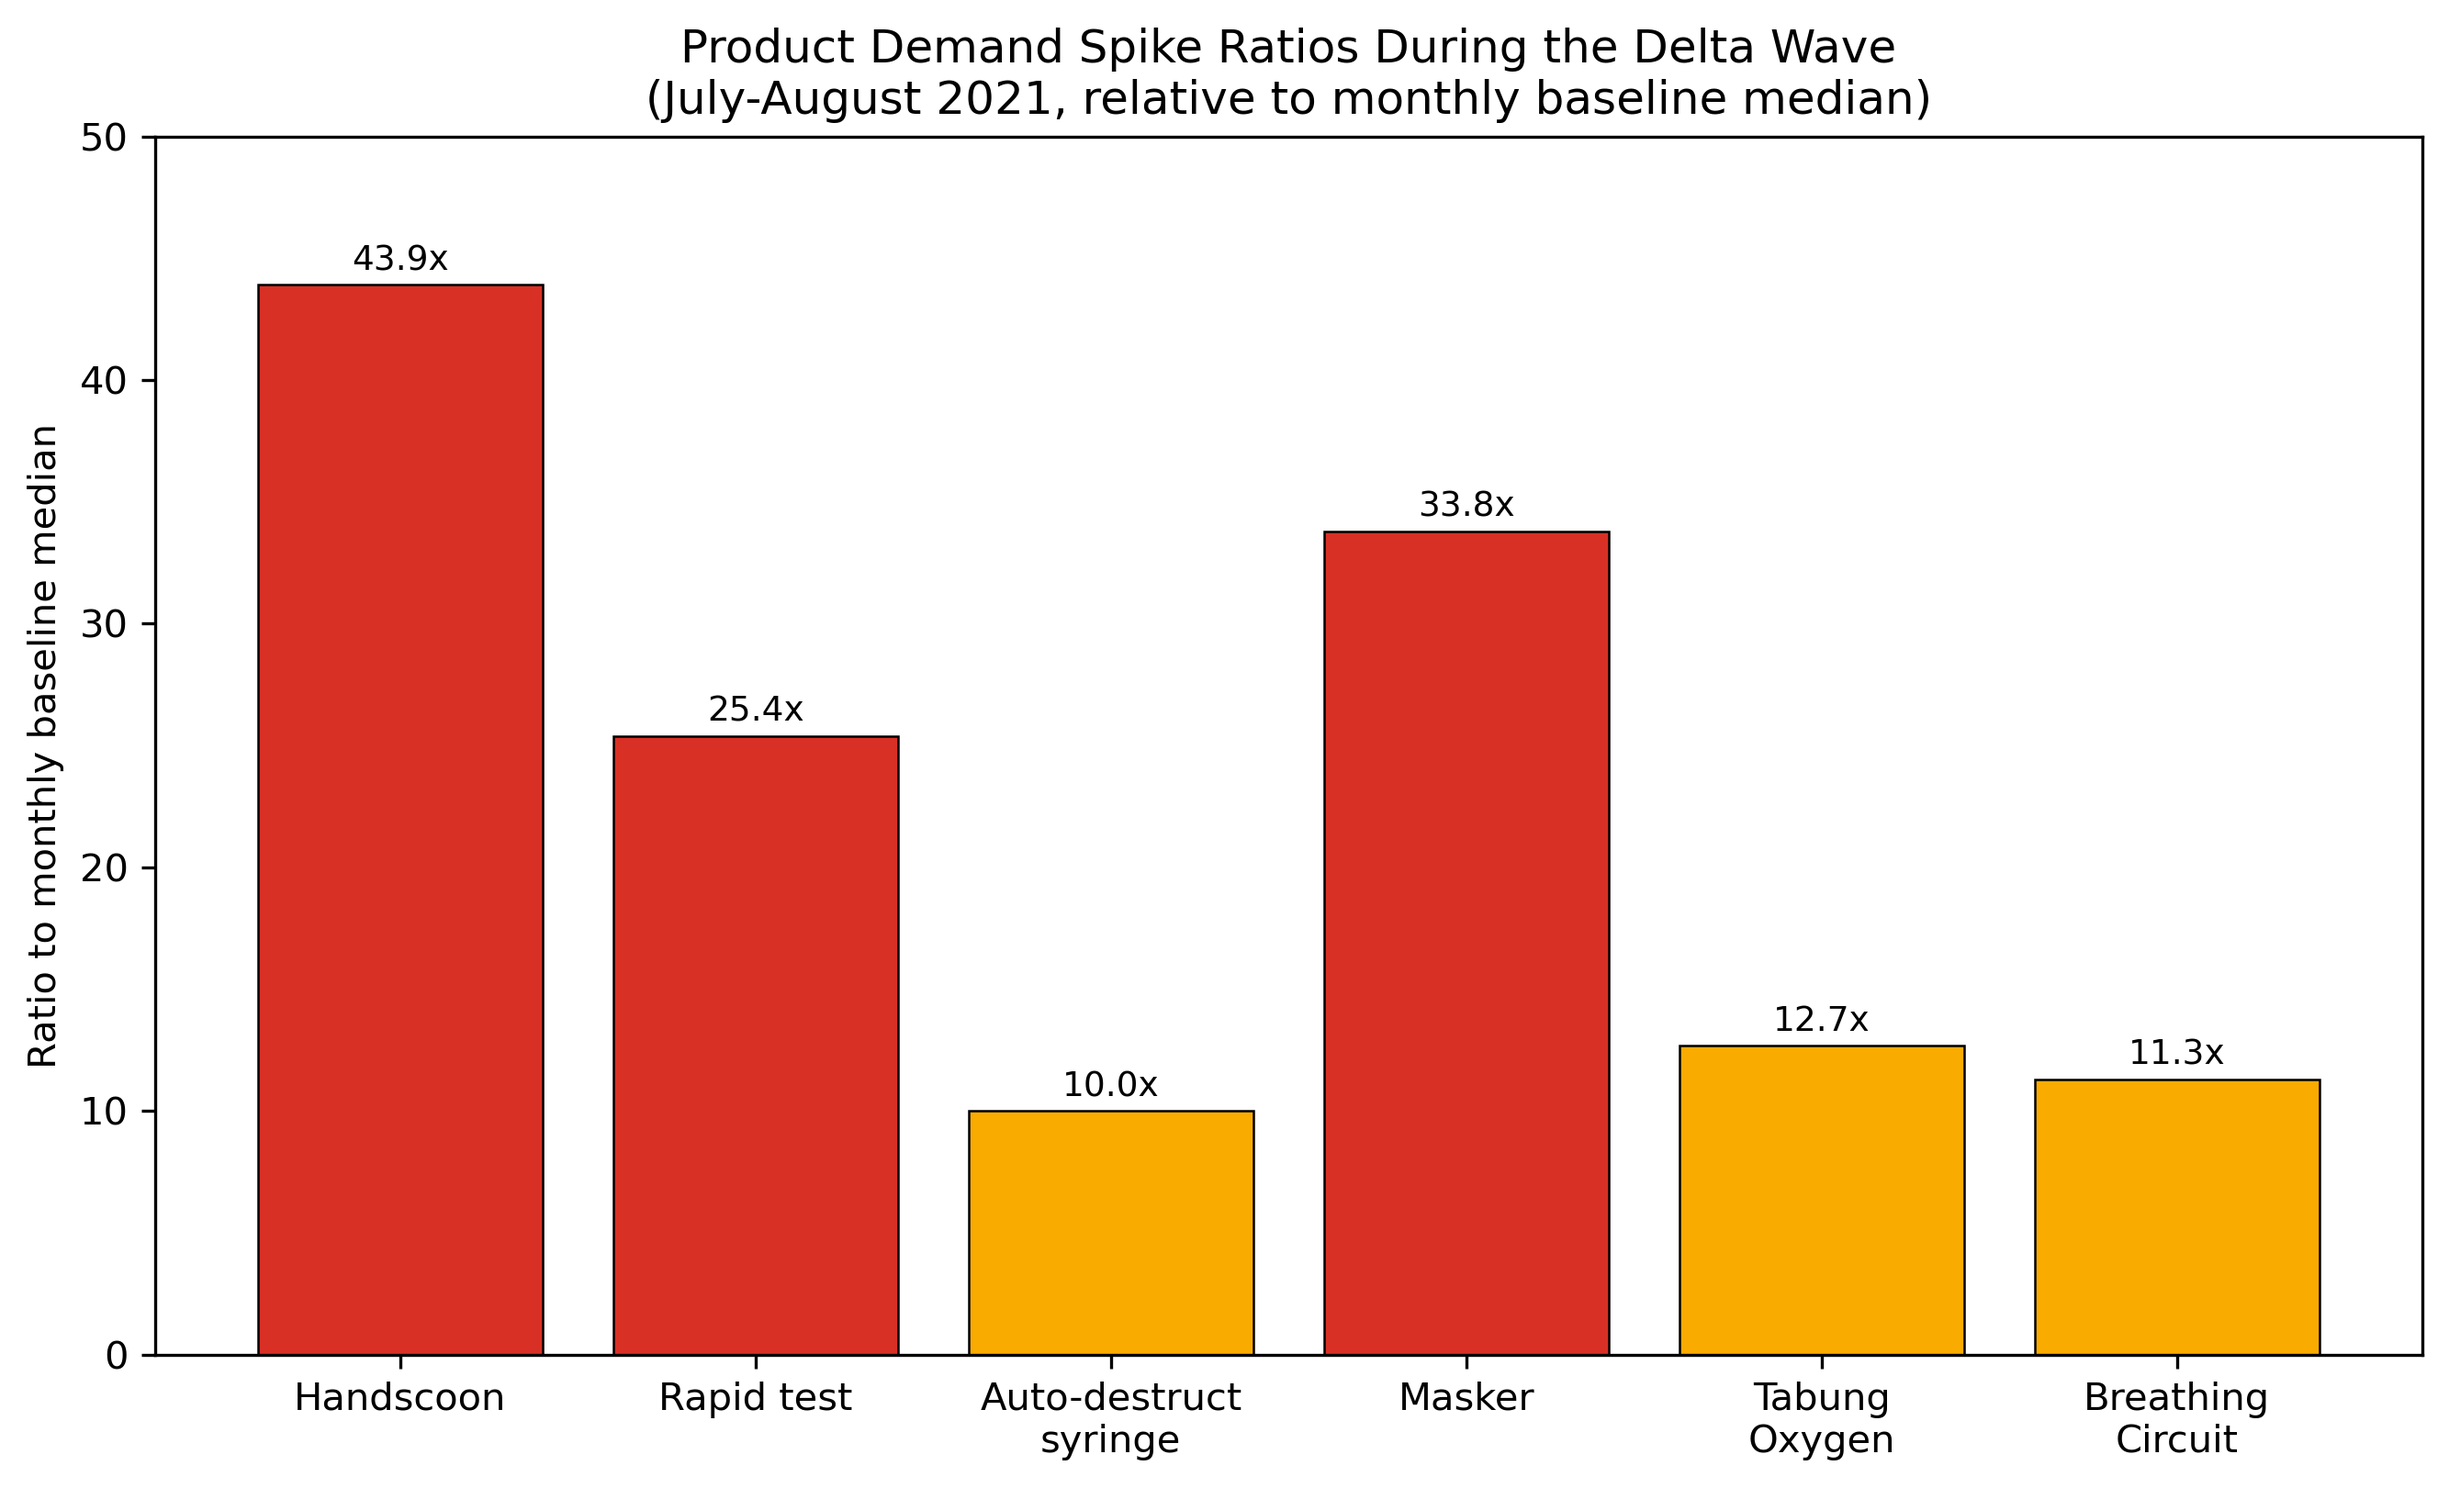
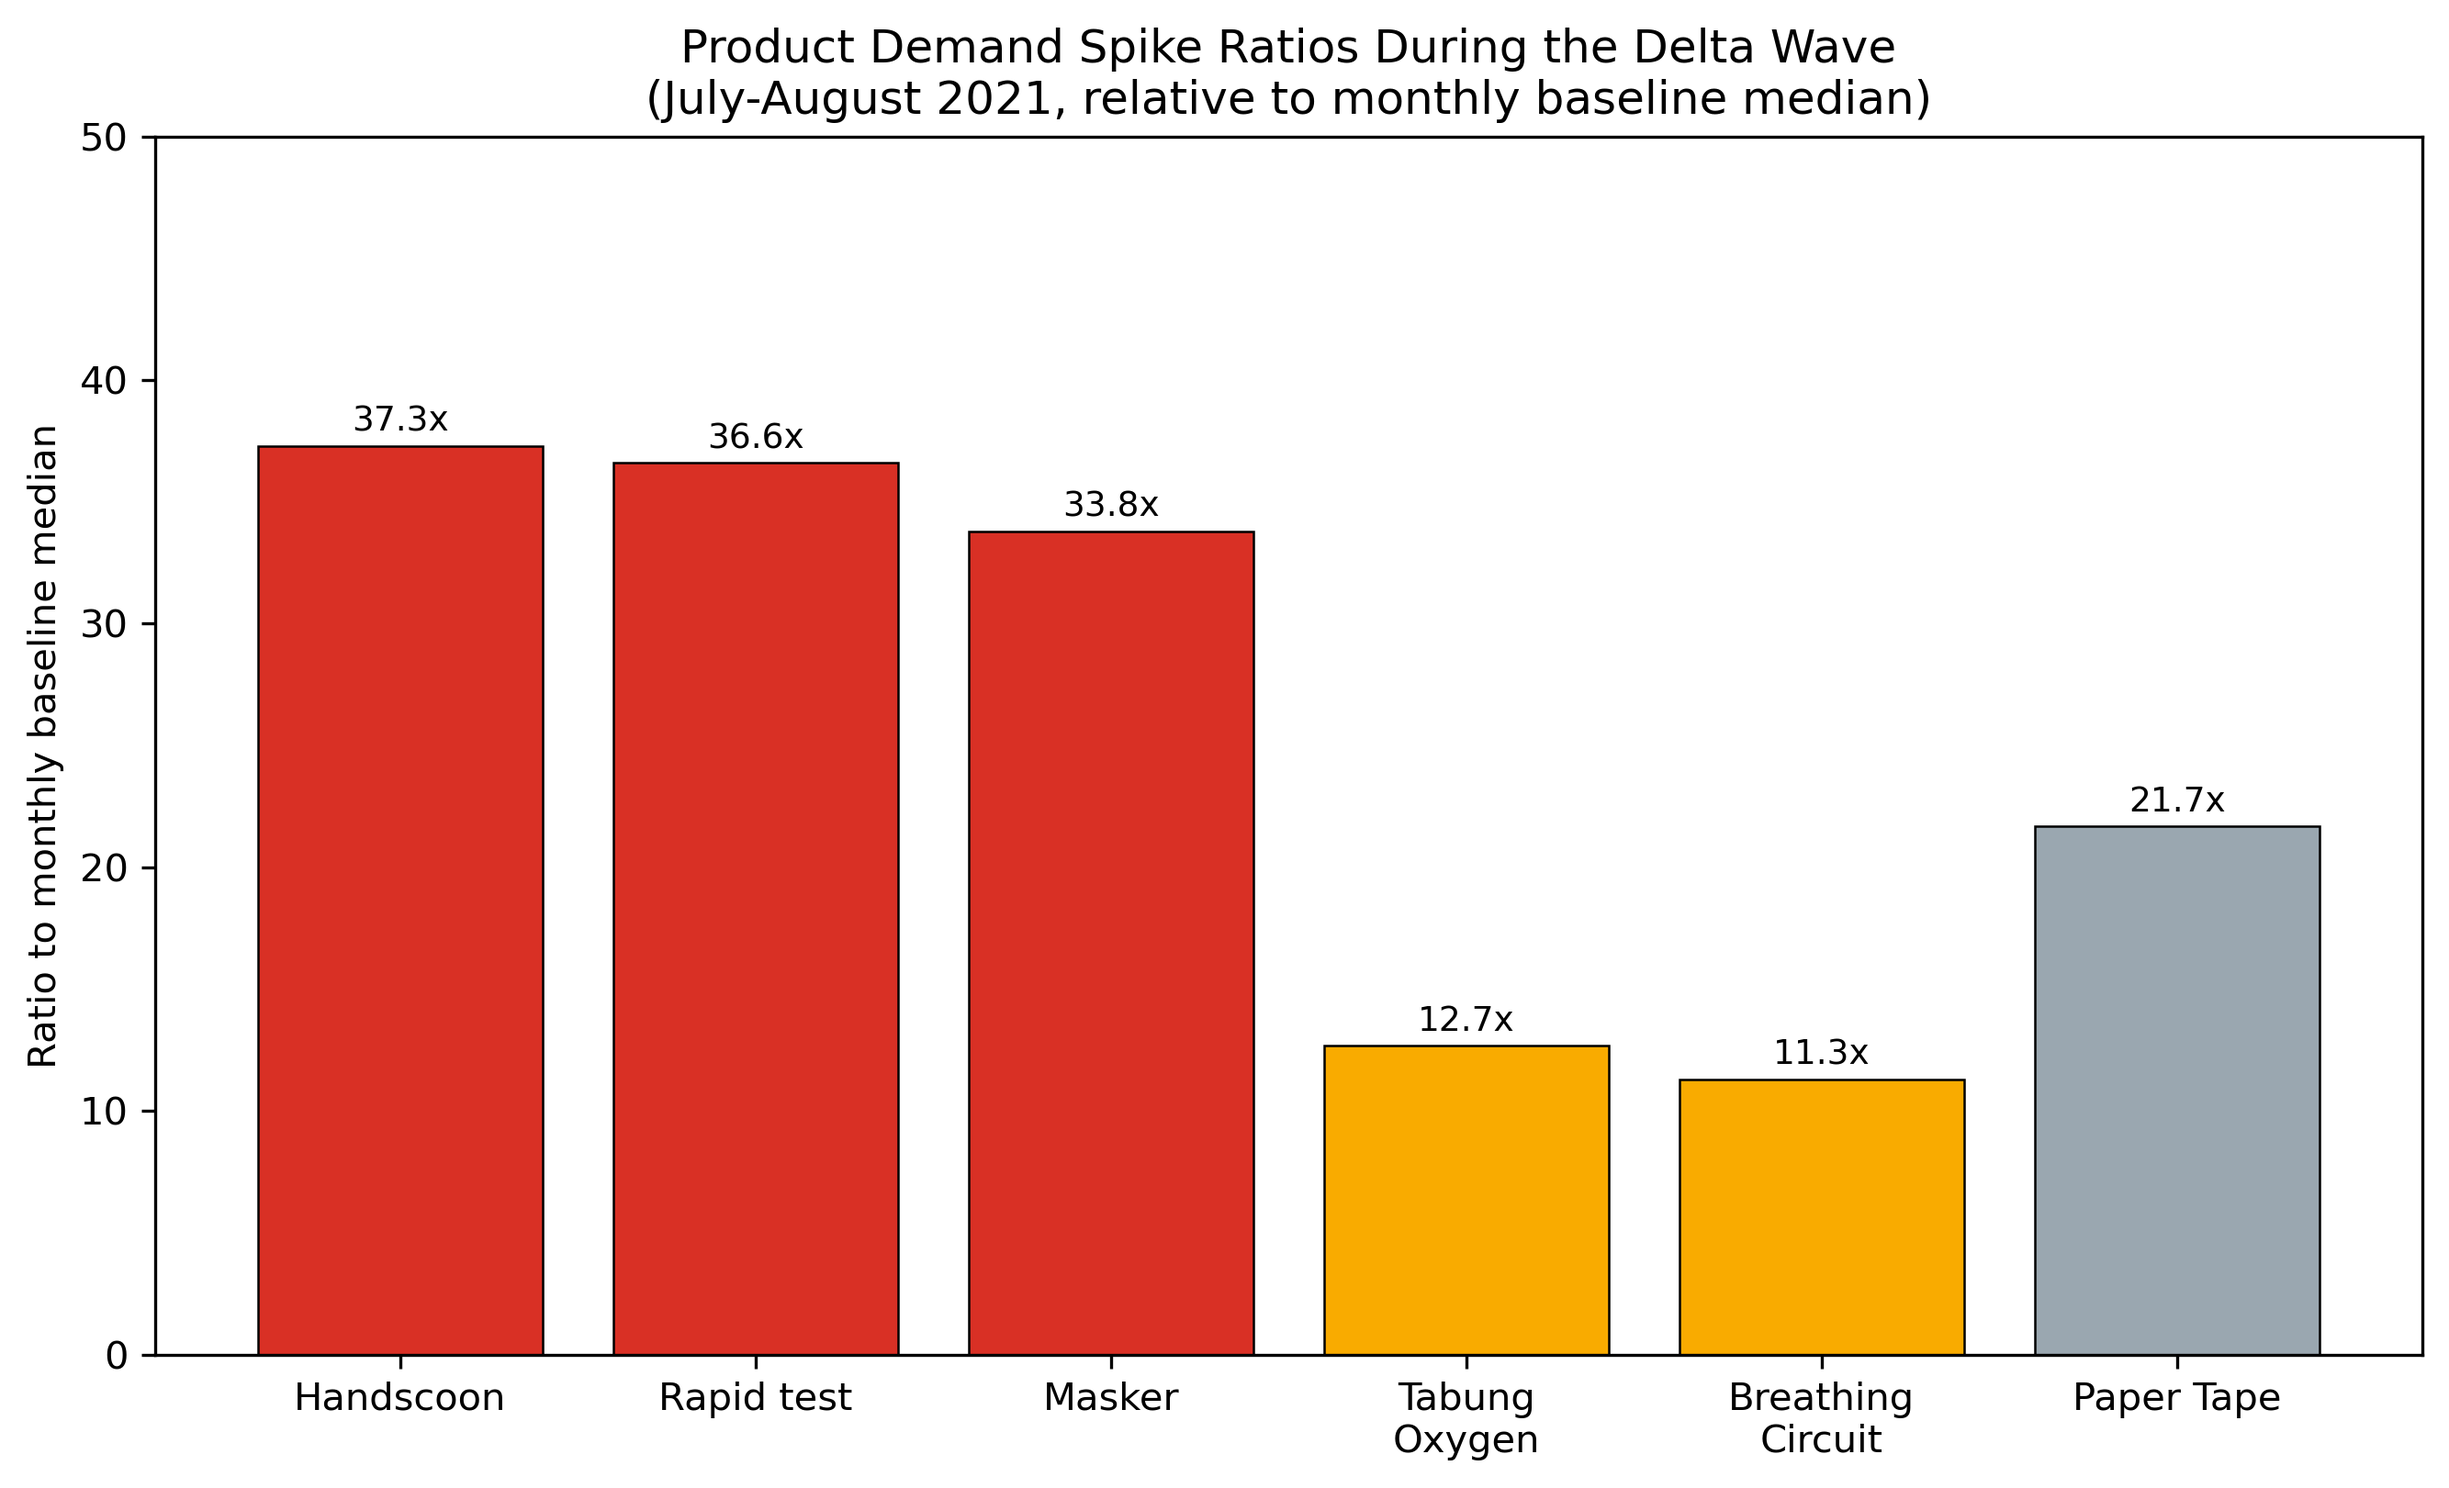
fix: correct paper 5 COVID spike numbers to match verified data
- COVID product group: 99.3M (19.7%) -> 6,315M (6.3%) PANDEMI_COVID
- Delta spike: 5.85x -> 5.55x monthly median (computed from data)
- Delta product ratios: handscoon 43.9x/rapid 25.4x/auto-destruct 10.0x
  -> handscoon 37.3x/rapid 36.6x/mask 33.8x (auto-destruct syringe not in top-20)
- Update fig1 (product ratios) and fig2 (COVID share) to match
- Paper 8 verified consistent with temuan.md Section 7 (no changes)

Changed region(s): [[0.249, 0.2776, 0.9648, 0.987], [0.0934, 0.1542, 0.249, 0.3085], [0.7158, 0.9254, 0.778, 0.987]]

diff --git a/scripts/make_paper5_figures.py b/scripts/make_paper5_figures.py
@@ -25,10 +25,10 @@ plt.rcParams.update({
 # ---------------------------------------------------------------------------
 # 1. Delta wave product spike ratios (from manuscript verified numbers)
 # ---------------------------------------------------------------------------
-products = ["Handscoon", "Rapid test", "Auto-destruct\nsyringe", "Masker",
-            "Tabung\nOxygen", "Breathing\nCircuit"]
-ratios = [43.9, 25.4, 10.0, 33.8, 12.7, 11.3]
-colors = ["#d93025", "#d93025", "#f9ab00", "#d93025", "#f9ab00", "#f9ab00"]
+products = ["Handscoon", "Rapid test", "Masker", "Tabung\nOxygen", "Breathing\nCircuit",
+            "Paper Tape"]
+ratios = [37.3, 36.6, 33.8, 12.7, 11.3, 21.7]
+colors = ["#d93025", "#d93025", "#d93025", "#f9ab00", "#f9ab00", "#9aa7b0"]
 
 fig, ax = plt.subplots(figsize=(9, 5.5))
 bars = ax.bar(products, ratios, color=colors, edgecolor="black", linewidth=0.6)
@@ -45,11 +45,11 @@ plt.close(fig)
 print("Saved fig1_delta_spike_ratio.png")
 
 # ---------------------------------------------------------------------------
-# 2. COVID product group share (19.7% of total)
+# 2. COVID product group share (6.3% of total)
 # ---------------------------------------------------------------------------
 fig, ax = plt.subplots(figsize=(7, 5))
-labels = ["COVID product group\n(19.7%)", "Other products\n(80.3%)"]
-sizes = [19.7, 80.3]
+labels = ["COVID product group\n(6.3%)", "Other products\n(93.7%)"]
+sizes = [6.3, 93.7]
 colors = ["#d93025", "#9aa7b0"]
 wedges, texts, autotexts = ax.pie(sizes, labels=labels, colors=colors,
                                   autopct="%1.1f%%", startangle=90,
@@ -58,7 +58,7 @@ for at in autotexts:
     at.set_color("white")
     at.set_fontweight("bold")
 ax.set_title("COVID Product Group Share of Total Medical Device Sales\n"
-             "(99.3M IDR of total)")
+             "(6,315M IDR of total)")
 plt.tight_layout()
 plt.savefig(os.path.join(FIGDIR, "fig2_covid_share.png"))
 plt.close(fig)

diff --git a/docs/manuscript_paper_5_covid.md b/docs/manuscript_paper_5_covid.md
@@ -10,7 +10,7 @@ khoirusysyafaat@students.uigm.ac.id, herri@uigm.ac.id
 
 ## ABSTRACT
 
-Emergency procurement during public health crises creates demand spikes that are concentrated in time and across specific products. We analyze the anatomy of these spikes using real distribution data from a medical device distributor in South Sumatra, Indonesia, during the COVID-19 pandemic. The COVID product group is valued at 99.3M IDR (19.7% of total sales). The Delta wave (July-August 2021) triggered a spike of 5.85x the monthly median, with handscoon (43.9x), rapid test (25.4x), and auto-destruct syringe (10.0x) leading the surge; a single Airvo invoice reached 762.5M IDR. In contrast, the El Nino forest-fire event of 2023 did NOT trigger a mask surge (verified with unit normalization from Box/Pcs to pcs; the mask quantity ratio was 0.47 relative to baseline). We conclude that emergency procurement spikes are concentrated in time and product, and that history-based models cannot capture them. The findings characterize what surges together, how concentrated the surge is in time, and why the signal is missed by history-based models.
+Emergency procurement during public health crises creates demand spikes that are concentrated in time and across specific products. We analyze the anatomy of these spikes using real distribution data from a medical device distributor in South Sumatra, Indonesia, during the COVID-19 pandemic. The COVID product group (PANDEMI_COVID) is valued at 6,315M IDR (6.3% of total sales). The Delta wave (July-August 2021) triggered a spike of 5.55x the monthly median, with handscoon (37.3x), rapid test (36.6x), and mask (33.8x) leading the surge; a single Airvo invoice reached 762.5M IDR. In contrast, the El Nino forest-fire event of 2023 did NOT trigger a mask surge (verified with unit normalization from Box/Pcs to pcs; the mask quantity ratio was 0.47 relative to baseline). We conclude that emergency procurement spikes are concentrated in time and product, and that history-based models cannot capture them. The findings characterize what surges together, how concentrated the surge is in time, and why the signal is missed by history-based models.
 
 **Keywords:** Emergency Procurement; Demand Spike; COVID-19; Healthcare Supply Chain; Event-Driven Demand; Product-Level Analysis
 
@@ -18,9 +18,9 @@ Emergency procurement during public health crises creates demand spikes that are
 
 ## HIGHLIGHTS
 
-- COVID product group is 19.7% of total medical device sales
-- Delta wave triggered a 5.85x monthly demand spike
-- Handscoon surged 43.9x, rapid test 25.4x during Delta
+- COVID product group is 6.3% of total medical device sales
+- Delta wave triggered a 5.55x monthly demand spike
+- Handscoon surged 37.3x, rapid test 36.6x during Delta
 - El Nino forest fires did NOT trigger a mask surge
 - History-based models cannot capture event-driven spikes
 
@@ -78,14 +78,14 @@ For the mask analysis, we normalize units from Box and Pcs to pcs, because the b
 
 ### 4.1 The COVID Product Group
 
-The COVID product group is valued at 99.3M IDR, or 19.7% of total sales. This includes PPE, testing supplies, and respiratory devices. The group is concentrated in the pandemic period (2020-2022).
+The COVID product group (PANDEMI_COVID) is valued at 6,315M IDR, or 6.3% of total sales. This includes PPE, testing supplies, and respiratory devices. The group is concentrated in the pandemic period (2020-2022).
 
 ### 4.2 The Delta Wave Spike
 
-The Delta wave (July-August 2021) triggered a spike of 5.85x the monthly median. The surge was led by:
-- Handscoon: 43.9x
-- Rapid test: 25.4x
-- Auto-destruct syringe: 10.0x
+The Delta wave (July-August 2021) triggered a spike of 5.55x the monthly median. The surge was led by:
+- Handscoon: 37.3x
+- Rapid test: 36.6x
+- Mask: 33.8x
 
 A single Airvo invoice reached 762.5M IDR. The pattern is clear: PPE, testing, and oxygen-related products surged simultaneously.
 
@@ -99,7 +99,7 @@ The El Nino forest-fire event of 2023 did NOT trigger a mask surge. After normal
 
 ### 4.5 Why History-Based Models Miss the Signal
 
-The spikes are concentrated in time and across specific products. A history-based model, which extrapolates from past patterns, cannot anticipate a 5.85x spike that occurs within weeks. The signal is event-driven, not history-driven.
+The spikes are concentrated in time and across specific products. A history-based model, which extrapolates from past patterns, cannot anticipate a 5.55x spike that occurs within weeks. The signal is event-driven, not history-driven.
 
 ---
 
@@ -127,7 +127,7 @@ Future work should evaluate the anatomy of emergency procurement in additional s
 
 ## 6. CONCLUSION
 
-We analyzed the anatomy of emergency procurement spikes using real distribution data from a medical device distributor during the COVID-19 pandemic. The COVID product group is valued at 99.3M IDR (19.7% of total). The Delta wave triggered a spike of 5.85x the monthly median, led by handscoon (43.9x), rapid test (25.4x), and auto-destruct syringe (10.0x). In contrast, the El Nino forest fires did not trigger a mask surge (ratio 0.47). We conclude that emergency procurement spikes are concentrated in time and product, and that history-based models cannot capture them.
+We analyzed the anatomy of emergency procurement spikes using real distribution data from a medical device distributor during the COVID-19 pandemic. The COVID product group (PANDEMI_COVID) is valued at 6,315M IDR (6.3% of total). The Delta wave triggered a spike of 5.55x the monthly median, led by handscoon (37.3x), rapid test (36.6x), and mask (33.8x). In contrast, the El Nino forest fires did not trigger a mask surge (ratio 0.47). We conclude that emergency procurement spikes are concentrated in time and product, and that history-based models cannot capture them.
 
 ---
 
